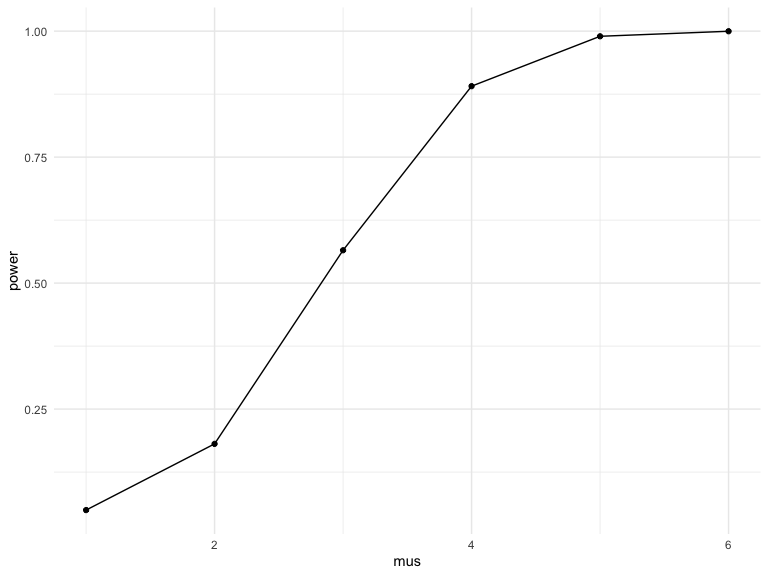
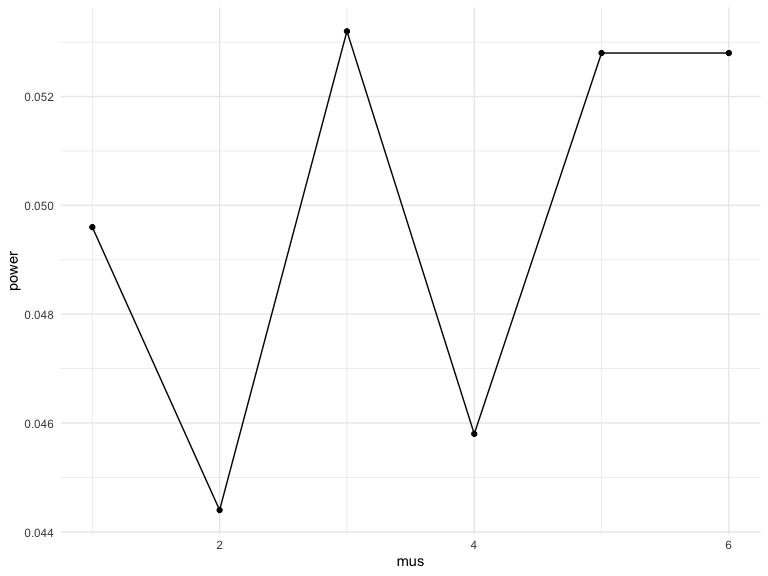
Problem 3 - Plots finished, committing final

diff --git a/p8105_hw5_khs2138.md b/p8105_hw5_khs2138.md
@@ -15,6 +15,7 @@ Kayla Schiffer-Kane
   - [Plot](#plot)
 - [Problem 3](#problem-3)
   - [Plot Power](#plot-power)
+  - [Plot Estimate and True $\mu$](#plot-estimate-and-true-mu)
 
 # Problem 1
 
@@ -317,7 +318,7 @@ following:
 ``` r
 sim_results_df =  
   expand_grid(sample_size = n, mus = c(1, 2, 3, 4, 5, 6), iter = 1:5000) |>
-  mutate(data = map2(iter, mus, ~rnorm(n, mean = mus, sd = sigma))) |>
+  mutate(data = map(mus, ~rnorm(n, mean = .x, sd = sigma))) |>
   mutate(mu_result = map_dbl(data, ~mean(.x))) |>
   mutate(t_test = map2(data, mus, ~broom::tidy(t.test(.x, mu = .y, conf.level = 1 - alpha)))) |>
   unnest(t_test) |>
@@ -358,10 +359,41 @@ sim_results_df |>
 
 <img src="p8105_hw5_khs2138_files/figure-gfm/plot_power-1.png" width="90%" />
 
+We’d expect effect size and power to increase together, which they seem
+to to an extent (power is greater for mu = 5,6 than 1,2) but there is
+variability and no clear pattern. This can be a result of sample size /
+alpha.
+
+## Plot Estimate and True $\mu$
+
 - Make a plot showing the average estimate of $\hat{\mu}$ on the y axis
-  and the true value of $\mu$ on the x axis. Make a second plot (or
-  overlay on the first) the average estimate of $\hat{\mu}$ **only in
-  samples for which the null was rejected** on the y axis and the true
-  value of $\mu$ on the x axis. Is the sample average of $\hat{\mu}$
-  across tests for which the null is rejected approximately equal to the
-  true value of $\mu$? Why or why not?
+  and the true value of $\mu$ on the x axis.
+
+``` r
+sim_results_df |> 
+  group_by(mus) |>
+  summarize(mean_mu = mean(mu_result)) |>
+  ggplot(aes(x = mus, y = mean_mu)) + geom_point() + geom_line()
+```
+
+<img src="p8105_hw5_khs2138_files/figure-gfm/plot_all-1.png" width="90%" />
+
+- Make a second plot (or overlay on the first) the average estimate of
+  $\hat{\mu}$ **only in samples for which the null was rejected** on the
+  y axis and the true value of $\mu$ on the x axis.
+
+``` r
+sim_results_df |> 
+  filter(p.value < alpha) |>
+  group_by(mus) |>
+  summarize(mean_mu = mean(mu_result)) |>
+  ggplot(aes(x = mus, y = mean_mu)) + geom_point() + geom_line()
+```
+
+<img src="p8105_hw5_khs2138_files/figure-gfm/plot_reject-1.png" width="90%" />
+
+**Is the sample average of $\hat{\mu}$ across tests for which the null
+is rejected approximately equal to the true value of $\mu$? Why or why
+not?** Yes - because when the null hypothesis is true, we’d expect the
+average of simulated data for rejected tests to be equal to the true
+value of $\mu$, subject to variability due to sample size/power.
